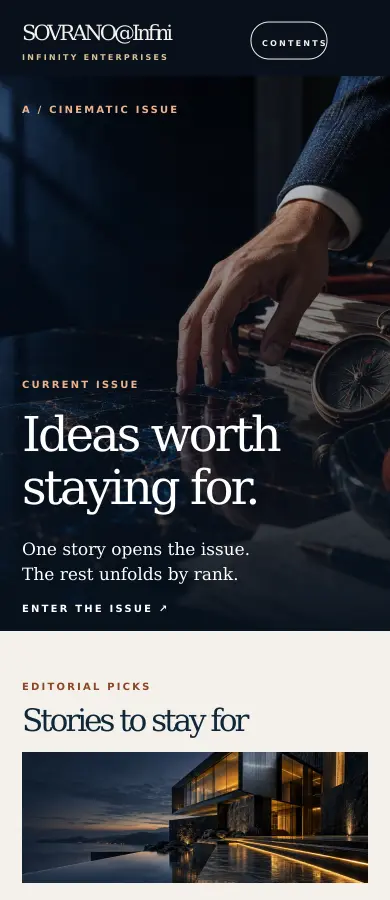
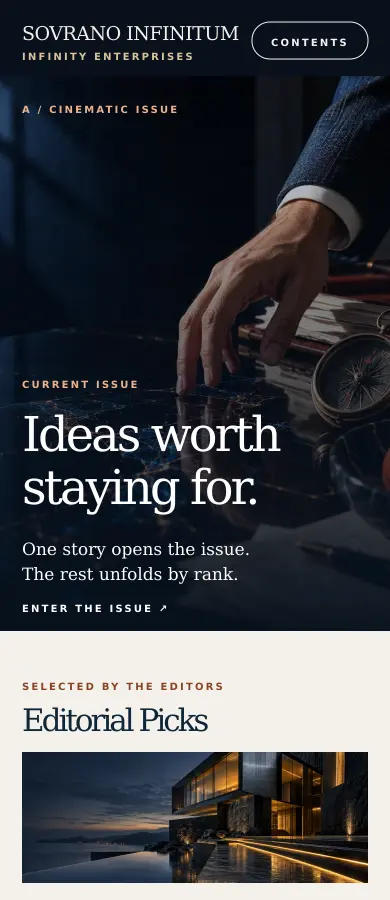
Design #76: resolve review findings and lock masthead

diff --git a/design/page-templates/reference.html b/design/page-templates/reference.html
@@ -18,12 +18,16 @@
   <style>
     .feature-study{background:#f4f1eb;color:#102638}.feature-study .feature-body{display:grid;grid-template-columns:minmax(320px,44%) 1fr;align-items:center;gap:clamp(38px,6vw,110px);padding:50px 5vw 70px}.feature-cover{position:relative;min-height:650px;border:14px solid #9b542f;background:url('../../src/assets/cover.jpg') center/cover;color:#fff;padding:28px;display:flex;flex-direction:column}.feature-cover:before{content:"";position:absolute;inset:0;background:linear-gradient(0deg,#07111de8,transparent 60%),linear-gradient(180deg,#07111d99,transparent 33%)}.feature-cover>*{position:relative}.feature-cover strong{font:normal clamp(2rem,4vw,4.4rem)/1 Georgia,serif;letter-spacing:-.07em}.feature-cover small{font-size:10px;letter-spacing:.15em;text-transform:uppercase}.feature-cover .cover-bottom{margin-top:auto}.feature-cover h2{font:normal clamp(2rem,3.5vw,4rem)/1.02 Georgia,serif;letter-spacing:-.05em;margin:10px 0 0}.feature-intro .kicker{color:#8a4526}.feature-intro h3{font:normal clamp(3.2rem,5.6vw,6.6rem)/.95 Georgia,serif;letter-spacing:-.07em;margin:18px 0 26px}.feature-intro p{font:clamp(1.1rem,1.7vw,1.5rem)/1.5 Georgia,serif;color:#4a5962;max-width:600px}.feature-intro .button{background:#102638;color:#fff}.feature-intro .next{display:block;margin-top:55px;font-size:11px;letter-spacing:.16em;text-transform:uppercase;color:#8a4526}@media(max-width:700px){.feature-study .feature-body{display:block;padding:30px 22px 60px}.feature-cover{min-height:490px;border-width:9px;padding:16px}.feature-cover strong{font-size:2.4rem}.feature-cover h2{font-size:2.15rem}.feature-intro{padding-top:42px}.feature-intro h3{font-size:3.5rem}.feature-intro .next{margin-top:38px}}
   </style>
+  <style>
+    .feature-cover strong{font-size:clamp(2rem,3vw,3.6rem);line-height:.94}
+    @media(max-width:700px){.mast .brand{font-size:17px;min-width:0}.mast .brand span{font-size:10px;letter-spacing:.04em;white-space:nowrap}.mast .nav{flex:none}.mast .nav em{white-space:nowrap}.feature-cover{min-height:430px}.feature-cover strong{font-size:2rem}}
+  </style>
 </head>
 <body>
-  <header class="intro"><small>Issue #76 · visual direction studies · existing art</small><h1>One publication. Three page rhythms.</h1><p>These are static examples for choosing a layout language. The text is illustrative. Existing Ether, MOTOR, and FORM pages remain their own experiences; no content or route is being replaced by this reference.</p></header>
-  <section class="study a" id="direction-a" aria-label="Direction A: cinematic issue"><div class="study-tag">A · Cinematic issue · front page and feature-led departments</div><div class="mast"><div class="brand">SOVRANO@Infini<span>An Infinity Enterprises publication</span></div><div class="nav"><span>Daily Desk &nbsp; Culture &nbsp; Motor &nbsp; Music</span><em>Contents +</em></div></div><div class="cover image"><div><span class="kicker">The current issue · cover story</span><h2>Ideas worth<br>staying for.</h2><p>One strong story opens the issue. The rest unfolds with the rhythm of a magazine, not a wall of cards.</p><span class="button">Enter the issue &nbsp; ↗</span></div></div><div class="paper"><div class="section-heading"><div><span class="eyebrow">Selected by the editors</span><h3>Editorial Picks</h3></div><span class="meta">01 / 03</span></div><div class="picks"><article><img src="../../src/assets/hero.jpg" alt="Existing site art used as a layout study"><span class="meta">Culture · feature 01</span><h4>A story gets room to breathe.</h4><p>Image, headline and introduction work together as one composed opening.</p></article><article><img src="../../src/assets/food.jpg" alt="Existing food art used as a layout study"><span class="meta">Food · feature 01</span><h4>A different appetite.</h4><p>The second story changes scale and pace.</p></article></div></div><div class="foot"><span>Infinity Enterprises</span><span>Design reference · not a published page</span></div></section>
-  <section class="study feature-study" id="major-feature" aria-label="Major Feature cover section"><div class="study-tag">Major Feature · issue cover and flagship story</div><div class="mast"><div class="brand">SOVRANO@Infini<span>An Infinity Enterprises publication</span></div><div class="nav"><span>Current Issue &nbsp; Editorial Picks</span><em>Contents +</em></div></div><div class="feature-body"><div class="feature-cover"><strong>SOVRANO</strong><small>An Infinity Enterprises publication</small><div class="cover-bottom"><small>The September Issue</small><h2>Who governs<br>the reasoning?</h2></div></div><div class="feature-intro"><span class="kicker">01 / The Major Feature</span><h3>A cover story<br>with a point<br>of view.</h3><p>The cover arrests the eye. The introduction opens the argument. The full story earns its own page.</p><span class="button">Read the feature &nbsp; ↗</span><span class="next">Editorial Picks follow below &nbsp; ↓</span></div></div><div class="foot"><span>Infinity Enterprises</span><span>Design reference · not a published page</span></div></section>
-  <section class="study b" id="direction-b" aria-label="Direction B: gallery chapters"><div class="study-tag">B · Gallery chapters · Motor, travel, culture, pets</div><div class="mast"><div class="brand">SOVRANO@Infini<span>An Infinity Enterprises publication</span></div><div class="nav"><span>Culture &nbsp; Motor &nbsp; Music</span><em>Contents +</em></div></div><div class="gallery-hero"><div class="gallery-copy"><span class="kicker">Motor · objects of motion</span><h2>First, the<br>feeling.</h2><p>Details lead to a silhouette, then a reveal. Every scroll changes what you know about the subject.</p><span class="button">Explore the story &nbsp; ↘</span></div><div class="gallery-visual image" role="img" aria-label="Existing Motor artwork"></div></div><div class="chapter"><img src="../../src/assets/motor-2.jpg" alt="Existing Motor detail artwork"><div class="chapter-copy"><span class="number">02 / The long line</span><h3>Built to be<br>looked at.</h3><p>A chapter has its own image, purpose, and tempo. The sequence tells the story.</p></div></div><div class="foot"><span>Infinity Enterprises</span><span>Design reference · not a published page</span></div></section>
-  <section class="study c" id="direction-c" aria-label="Direction C: reading room"><div class="study-tag">C · Reading room · Daily Desk, Journal, Fin@Tech</div><div class="mast"><div class="brand">SOVRANO@Infini<span>An Infinity Enterprises publication</span></div><div class="nav"><span>Daily Desk &nbsp; Journal &nbsp; About</span><em>Contents +</em></div></div><div class="reading-hero"><div class="reading-copy"><span class="meta">The Reading Room · selected work</span><h2>Follow the<br>question.</h2><p>A calmer page for reporting, analysis and essays. Evidence, authorship, and the path through the work stay visible.</p><span class="button">Browse the desk &nbsp; ↗</span></div><div class="reading-visual image" role="img" aria-label="Existing research artwork"></div></div><div class="reading-index"><article><span class="meta">Lead story / reporting</span><h3>What the record shows.</h3><p>The lead gets a clear scope, source trail, and date.</p></article><article><span class="meta">Outside Signals</span><h3>Beyond the room.</h3><p>External work is clearly labeled and credited.</p></article><article><span class="meta">Agentic@Enigmas / opinion</span><h3>A point of view.</h3><p>Opinion reads as opinion, apart from the news desk.</p></article></div><div class="foot"><span>Infinity Enterprises</span><span>Design reference · not a published page</span></div></section>
+  <header class="intro"><small>Issue #76 · visual direction studies · existing art</small><h1>One publication. Three page rhythms.</h1><p>These are independent static composition studies, not consecutive sections of one page. On the homepage the Major Feature replaces the A hero, then Editorial Picks follow. Existing Ether, MOTOR, and FORM pages remain their own experiences.</p></header>
+  <section class="study a" id="direction-a" aria-label="Direction A: cinematic issue"><div class="study-tag">A · Cinematic pattern · alternate hero for feature-led departments</div><div class="mast"><div class="brand">SOVRANO INFINITUM<span>Infinity Enterprises</span></div><div class="nav"><span>Daily Desk &nbsp; Culture &nbsp; Motor &nbsp; Music</span><em>Contents +</em></div></div><div class="cover image"><div><span class="kicker">The current issue · cover story</span><h2>Ideas worth<br>staying for.</h2><p>One strong story opens the issue. The rest unfolds with the rhythm of a magazine, not a wall of cards.</p><span class="button">Enter the issue &nbsp; ↗</span></div></div><div class="paper"><div class="section-heading"><div><span class="eyebrow">Selected by the editors</span><h3>Editorial Picks</h3></div><span class="meta">01 / 03</span></div><div class="picks"><article><img src="../../src/assets/hero.jpg" alt="Existing site art used as a layout study"><span class="meta">Culture · feature 01</span><h4>A story gets room to breathe.</h4><p>Image, headline and introduction work together as one composed opening.</p></article><article><img src="../../src/assets/food.jpg" alt="Existing food art used as a layout study"><span class="meta">Food · feature 01</span><h4>A different appetite.</h4><p>The second story changes scale and pace.</p></article></div></div><div class="foot"><span>Infinity Enterprises</span><span>Design reference · not a published page</span></div></section>
+  <section class="study feature-study" id="major-feature" aria-label="Major Feature cover section"><div class="study-tag">Major Feature · issue cover and flagship story</div><div class="mast"><div class="brand">SOVRANO INFINITUM<span>Infinity Enterprises</span></div><div class="nav"><span>Current Issue &nbsp; Editorial Picks</span><em>Contents +</em></div></div><div class="feature-body"><div class="feature-cover"><strong>SOVRANO<br>INFINITUM</strong><small>An Infinity Enterprises publication</small><div class="cover-bottom"><small>The September Issue</small><h2>Who governs<br>the reasoning?</h2></div></div><div class="feature-intro"><span class="kicker">01 / The Major Feature</span><h3>A cover story<br>with a point<br>of view.</h3><p>The cover opens the question. The story carries it forward. Read the full feature for the argument.</p><span class="button">Read the feature &nbsp; ↗</span><span class="next">Editorial Picks follow below &nbsp; ↓</span></div></div><div class="foot"><span>Infinity Enterprises</span><span>Design reference · not a published page</span></div></section>
+  <section class="study b" id="direction-b" aria-label="Direction B: gallery chapters"><div class="study-tag">B · Gallery chapters · Motor, travel, culture, pets</div><div class="mast"><div class="brand">SOVRANO INFINITUM<span>Infinity Enterprises</span></div><div class="nav"><span>Culture &nbsp; Motor &nbsp; Music</span><em>Contents +</em></div></div><div class="gallery-hero"><div class="gallery-copy"><span class="kicker">Motor · objects of motion</span><h2>First, the<br>feeling.</h2><p>Details lead to a silhouette, then a reveal. Every scroll changes what you know about the subject.</p><span class="button">Explore the story &nbsp; ↘</span></div><div class="gallery-visual image" role="img" aria-label="Existing Motor artwork"></div></div><div class="chapter"><img src="../../src/assets/motor-2.jpg" alt="Existing Motor detail artwork"><div class="chapter-copy"><span class="number">02 / The long line</span><h3>Built to be<br>looked at.</h3><p>A chapter has its own image, purpose, and tempo. The sequence tells the story.</p></div></div><div class="foot"><span>Infinity Enterprises</span><span>Design reference · not a published page</span></div></section>
+  <section class="study c" id="direction-c" aria-label="Direction C: reading room"><div class="study-tag">C · Reading room · Daily Desk, Journal, Fin@Tech</div><div class="mast"><div class="brand">SOVRANO INFINITUM<span>Infinity Enterprises</span></div><div class="nav"><span>Daily Desk &nbsp; Journal &nbsp; About</span><em>Contents +</em></div></div><div class="reading-hero"><div class="reading-copy"><span class="meta">The Reading Room · selected work</span><h2>Follow the<br>question.</h2><p>A calmer page for reporting, analysis and essays. Evidence, authorship, and the path through the work stay visible.</p><span class="button">Browse the desk &nbsp; ↗</span></div><div class="reading-visual image" role="img" aria-label="Existing research artwork"></div></div><div class="reading-index"><article><span class="meta">Lead story / reporting</span><h3>What the record shows.</h3><p>The lead gets a clear scope, source trail, and date.</p></article><article><span class="meta">Outside Signals</span><h3>Beyond the room.</h3><p>External work is clearly labeled and credited.</p></article><article><span class="meta">Agentic@Enigmas / opinion</span><h3>A point of view.</h3><p>Opinion reads as opinion, apart from the news desk.</p></article></div><div class="foot"><span>Infinity Enterprises</span><span>Design reference · not a published page</span></div></section>
 </body>
 </html>

diff --git a/design/page-templates/render_studies.py b/design/page-templates/render_studies.py
@@ -23,13 +23,13 @@ def image(name, x, y, w, h, focus='xMidYMid'):
     return f'<image xlink:href="{art(name)}" x="{x}" y="{y}" width="{w}" height="{h}" preserveAspectRatio="{focus} slice"/>'
 
 
-def label(value, x, y, color='#c77c55', size=13):
+def label(value, x, y, color='#8a4526', size=13):
     return f'<text x="{x}" y="{y}" font-family="Arial,sans-serif" font-size="{size}" font-weight="700" letter-spacing="2.2" fill="{color}">{escape(value.upper())}</text>'
 
 
-def title(lines, x, y, size, color, step=None):
+def title(lines, x, y, size, color, step=None, tracking=-3):
     step = step or size * .99
-    return ''.join(f'<text x="{x}" y="{y + i * step}" font-family="Georgia,serif" font-size="{size}" letter-spacing="-3" fill="{color}">{escape(line)}</text>' for i, line in enumerate(lines))
+    return ''.join(f'<text x="{x}" y="{y + i * step}" font-family="Georgia,serif" font-size="{size}" letter-spacing="{tracking}" fill="{color}">{escape(line)}</text>' for i, line in enumerate(lines))
 
 
 def paragraph(lines, x, y, color, size=20, step=29):
@@ -37,9 +37,11 @@ def paragraph(lines, x, y, color, size=20, step=29):
 
 
 def mast(w):
-    right = w - 48
+    right = w - 48 if w > 600 else w - 22
     subline = 'An Infinity Enterprises publication' if w > 600 else 'Infinity Enterprises'
-    return rect(0, 0, w, 76, '#08101a') + title(['SOVRANO@Infini'], 48 if w > 600 else 22, 40, 28 if w > 600 else 21, '#f4f1eb') + label(subline, 48 if w > 600 else 22, 60, '#d8c39a', 8) + f'<rect x="{right - (150 if w > 600 else 91)}" y="22" width="{130 if w > 600 else 76}" height="37" rx="18" fill="none" stroke="#f4f1eb"/>' + label('Contents', right - (132 if w > 600 else 80), 46, '#f4f1eb', 10 if w > 600 else 8)
+    button_x = right - (150 if w > 600 else 116)
+    button_width = 130 if w > 600 else 116
+    return rect(0, 0, w, 76, '#08101a') + title(['SOVRANO INFINITUM'], 48 if w > 600 else 22, 40, 27 if w > 600 else 19, '#f4f1eb', tracking=-.5) + label(subline, 48 if w > 600 else 22, 60, '#d8c39a', 10) + f'<rect x="{button_x}" y="22" width="{button_width}" height="37" rx="18" fill="none" stroke="#f4f1eb"/>' + label('Contents', button_x + 19, 46, '#f4f1eb', 10)
 
 
 def save(name, w, h, parts):
@@ -64,7 +66,7 @@ save('a-desktop.svg', w, h, [
     image('hero.jpg', 72, 786, 872, 114), image('food.jpg', 968, 786, 560, 114),
 ])
 w, h = 390, 900
-save('a-phone.svg', w, h, [rect(0, 0, w, h, '#f4f1eb'), mast(w), image('cover.jpg', 0, 76, w, 555, 'xMidYMid'), rect(0, 76, w, 555, 'url(#shade)'), label('A  /  CINEMATIC ISSUE', 22, 113, '#efb28b', 10), label('CURRENT ISSUE', 22, 388, '#efb28b', 10), title(['Ideas worth', 'staying for.'], 22, 451, 48, '#fff', 53), paragraph(['One story opens the issue.', 'The rest unfolds by rank.'], 22, 555, '#fff', 17, 25), label('ENTER THE ISSUE  ↗', 22, 612, '#fff', 10), label('EDITORIAL PICKS', 22, 690, '#8a4526', 10), title(['Stories to stay for'], 22, 731, 31, '#102638'), image('hero.jpg', 22, 752, 346, 131)])
+save('a-phone.svg', w, h, [rect(0, 0, w, h, '#f4f1eb'), mast(w), image('cover.jpg', 0, 76, w, 555, 'xMidYMid'), rect(0, 76, w, 555, 'url(#shade)'), label('A  /  CINEMATIC ISSUE', 22, 113, '#efb28b', 10), label('CURRENT ISSUE', 22, 388, '#efb28b', 10), title(['Ideas worth', 'staying for.'], 22, 451, 48, '#fff', 53), paragraph(['One story opens the issue.', 'The rest unfolds by rank.'], 22, 555, '#fff', 17, 25), label('ENTER THE ISSUE  ↗', 22, 612, '#fff', 10), label('SELECTED BY THE EDITORS', 22, 690, '#8a4526', 10), title(['Editorial Picks'], 22, 731, 31, '#102638'), image('hero.jpg', 22, 752, 346, 131)])
 
 # Major Feature: a portrait magazine cover and adjacent editorial introduction.
 # This is the lead section after the opening, not a replacement for an article.
@@ -75,11 +77,11 @@ save('feature-desktop.svg', w, h, [
     rect(72, 156, 570, 700, '#9b542f'),
     image('cover.jpg', 86, 170, 542, 672, 'xMidYMid'),
     rect(86, 170, 542, 672, 'url(#shade)'),
-    title(['SOVRANO'], 116, 250, 68, '#fff'),
+    title(['SOVRANO', 'INFINITUM'], 116, 234, 50, '#fff', 51, tracking=-.7),
     label('AN INFINITY ENTERPRISES PUBLICATION', 116, 279, '#f4f1eb', 10),
     label('THE SEPTEMBER ISSUE', 116, 672, '#efb28b'),
     title(['Who governs', 'the reasoning?'], 116, 742, 43, '#fff', 48),
-    label('01  /  THE FEATURE', 728, 269, '#8a4526'),
+    label('01  /  THE MAJOR FEATURE', 728, 269, '#8a4526'),
     title(['A cover story', 'with a point', 'of view.'], 728, 365, 75, '#102638', 81),
     paragraph(['The cover arrests the eye. The introduction opens',
                'the argument. The full story earns its own page.'], 732, 647, '#4a5962', 24, 36),
@@ -90,16 +92,18 @@ w, h = 390, 900
 save('feature-phone.svg', w, h, [
     rect(0, 0, w, h, '#f4f1eb'), mast(w),
     label('THE CURRENT ISSUE  /  MAJOR FEATURE', 22, 113, '#8a4526', 10),
-    rect(22, 138, 346, 503, '#9b542f'),
-    image('cover.jpg', 31, 147, 328, 485, 'xMidYMid'),
-    rect(31, 147, 328, 485, 'url(#shade)'),
-    title(['SOVRANO'], 47, 206, 38, '#fff'),
-    label('INFINITY ENTERPRISES', 47, 229, '#fff', 8),
-    label('THE SEPTEMBER ISSUE', 47, 526, '#efb28b', 9),
-    title(['Who governs', 'the reasoning?'], 47, 575, 29, '#fff', 33),
-    label('01  /  THE FEATURE', 22, 691, '#8a4526', 10),
-    title(['A cover story', 'with a point', 'of view.'], 22, 744, 35, '#102638', 39),
-    label('READ THE FEATURE  ↗', 22, 882, '#8a4526', 10),
+    rect(22, 138, 346, 430, '#9b542f'),
+    image('cover.jpg', 31, 147, 328, 412, 'xMidYMid'),
+    rect(31, 147, 328, 412, 'url(#shade)'),
+    title(['SOVRANO', 'INFINITUM'], 47, 191, 29, '#fff', 31, tracking=-.5),
+    label('INFINITY ENTERPRISES', 47, 246, '#fff', 10),
+    label('THE SEPTEMBER ISSUE', 47, 468, '#efb28b', 10),
+    title(['Who governs', 'the reasoning?'], 47, 507, 28, '#fff', 31),
+    label('01  /  THE MAJOR FEATURE', 22, 602, '#8a4526', 10),
+    title(['A cover story with', 'a point of view.'], 22, 649, 32, '#102638', 35),
+    paragraph(['The cover opens the question.', 'The story carries it forward.'], 22, 747, '#4a5962', 16, 22),
+    rect(22, 812, 265, 52, '#102638'),
+    label('READ THE FEATURE  ↗', 44, 844, '#fff', 10),
 ])
 
 # B: dark gallery progression.
@@ -108,7 +112,7 @@ save('b-desktop.svg', w, h, [
     rect(0, 0, w, h, '#10151a'), mast(w),
     rect(0, 76, 690, 555, '#10151a'), image('motor-1.jpg', 690, 76, 910, 555),
     rect(690, 76, 235, 555, 'url(#side)'),
-    label('B  /  GALLERY CHAPTERS', 72, 128, '#efb28b'),
+    label('B  /  GALLERY PATTERN WITH MOTOR ART', 72, 128, '#efb28b'),
     label('MOTOR  •  OBJECTS OF MOTION', 72, 235, '#efb28b'),
     title(['First, the', 'feeling.'], 72, 340, 86, '#fff', 92),
     paragraph(['Detail. Silhouette. Then the reveal.', 'Each scroll changes what you know.'], 72, 520, '#d2c8c1', 22),
@@ -118,7 +122,7 @@ save('b-desktop.svg', w, h, [
     title(['Built to be', 'looked at.'], 855, 772, 54, '#fff', 58),
 ])
 w, h = 390, 900
-save('b-phone.svg', w, h, [rect(0, 0, w, h, '#10151a'), mast(w), image('motor-1.jpg', 0, 76, w, 365, 'xMidYMid'), rect(0, 325, w, 116, 'url(#shade)'), label('B  /  GALLERY CHAPTERS', 22, 115, '#fff', 10), label('MOTOR  •  OBJECTS OF MOTION', 22, 493, '#efb28b', 10), title(['First, the', 'feeling.'], 22, 555, 53, '#fff', 56), paragraph(['Detail. Silhouette. Reveal.'], 22, 659, '#d2c8c1', 17), label('EXPLORE THE STORY  ↘', 22, 700, '#fff', 10), image('motor-2.jpg', 0, 735, w, 165)])
+save('b-phone.svg', w, h, [rect(0, 0, w, h, '#10151a'), mast(w), image('motor-1.jpg', 0, 76, w, 365, 'xMidYMid'), rect(0, 325, w, 116, 'url(#shade)'), label('B  /  MOTOR ART STUDY', 22, 115, '#fff', 10), label('MOTOR  •  OBJECTS OF MOTION', 22, 493, '#efb28b', 10), title(['First, the', 'feeling.'], 22, 555, 53, '#fff', 56), paragraph(['Detail. Silhouette. Reveal.'], 22, 659, '#d2c8c1', 17), label('EXPLORE THE STORY  ↘', 22, 700, '#fff', 10), image('motor-2.jpg', 0, 735, w, 165)])
 
 # C: paper reading environment.
 w, h = 1600, 900

diff --git a/design/page-templates/README.md b/design/page-templates/README.md
@@ -1,6 +1,6 @@
 # Infinity page layout templates
 
-**Status:** owner selected the combined system in issue #76: A for the front page, B for visual departments, and C for reading and research, with a dedicated Major Feature cover section. This is not a live page or a replacement for an approved room. Open [reference.html](reference.html) in a browser to see the responsive layouts. Its images are existing repository assets; illustrative copy is marked as such.
+**Status:** owner selected the combined system in issue #76: A for the front page, B for visual departments, and C for reading and research, with a dedicated Major Feature cover section. Chris selected **SOVRANO INFINITUM** for the masthead. This is not a live page or a replacement for an approved room. Open [reference.html](reference.html) in a browser to see the responsive layouts. Its images are existing repository assets; illustrative copy is marked as such.
 
 Desktop preview boards use a **1600 × 900 (16:9)** frame. The phone studies remain 390 × 900 portrait. These are viewports into scrolling pages, not fixed page heights.
 
@@ -13,12 +13,17 @@ Desktop preview boards use a **1600 × 900 (16:9)** frame. The phone studies rem
 
 The cover section borrows the editorial *scale* of a newsmagazine cover without borrowing another publication's mark or exact cover design. Its art, headline and frame are Infinity's own. It opens the Current Issue after the splash, then hands off to Editorial Picks.
 
+**How to read the studies:** each board illustrates a layout pattern, not another consecutive section of one page. On `/`, the Major Feature **replaces A's hero band**, so `cover.jpg` appears once before Editorial Picks. A's image-led hero remains a possible opening for a feature-led department. B uses MOTOR art to illustrate a gallery chapter; the existing `/motor` experience is governed by D. The HTML study demonstrates responsive flow and controls, while the boards show the approved composition. If their example copy differs, follow the flow here and verify final editorial text in its own issue.
+
 ## Which reference wins
 
 1. The actual existing page and its behavior are the preservation baseline: [`src/home.html`](../../src/home.html), [`src/ether.html`](../../src/ether.html), [`src/motor.html`](../../src/motor.html), [`src/form.html`](../../src/form.html), and existing article routes. The source mirror may lag the published Site; compare with the live route before replacing a visual treatment.
 2. The approved department map and routes are in [`docs/blueprint/NAVIGATION.md`](../../docs/blueprint/NAVIGATION.md). This guide describes layout, not a route migration.
 3. This kit defines the visual grammar for new pages and review of changes. Its illustrated text and crops are examples, not approved editorial or final imagery.
-4. [`design/issue-mocks/`](../issue-mocks/) explores possible room directions. A mock is not permission to overwrite an existing page or change a locked journey. Resolve a conflict with the owner in the relevant issue.
+4. Where this kit conflicts with [`design/sovrano-v1/`](../sovrano-v1/) on **page composition or the masthead name**, this kit wins. The older pack's room colors, motifs, and other compatible visual work remain useful. The 14 department names and routes in #60 remain; its visible menu grouping is still a proposal for Forge to bring back for owner review. Do not silently adopt either the older nine Italian menu slots or an unapproved ten-slot draft.
+5. [`design/issue-mocks/`](../issue-mocks/) explores possible room directions. A mock is not permission to overwrite an existing page or change a locked journey. Resolve a conflict with the owner in the relevant issue.
+
+The A/B/C labels describe **composition families, not identical page layouts**. A room can vary its grid, typography, color, texture, motif, transition, and editorial pacing inside its family. Music, Tech@Lounge, and Food should remain unmistakably different even with their text blurred, as #35 requires. Do not flatten #31's room identities into one reusable card grid.
 
 ## The house style
 
@@ -34,6 +39,8 @@ Think of a cinematic magazine: **a single arresting opening, then an editorial s
 | Controls | Legible at rest, high contrast on focus; sound off until chosen; visible controls over immersive images | `src/site.css`, `src/ether.html`, `src/form.html` |
 
 Do not turn every department into the same three-card grid. Do not paste a photo above a title as the entire composition. Do not make every piece of text faint: quiet captions still need readable contrast. Motion serves an entrance or transition, then yields to reading. Reduced-motion visitors get the content without a blocking animation. A cinematic splash is skippable, and never hides navigation.
+
+Use dark rust `#8a4526` for small text on paper; `#c77c55` is an accent and fails small-text contrast on `#f4f1eb`. Treat the previews as composition studies, not a pixel-perfect type specification. The smallest visible label in a new page should be at least 10 CSS px, with readable contrast and larger text where practical.
 
 ## Page flows
 
@@ -69,7 +76,7 @@ The layouts are families, not rigid component inventories. The distinguishing co
 
 | Department | Template | Distinguishing treatment and entry sequence |
 |---|---|---|
-| Home / Current Issue | A + Major Feature | Splash, flagship cover and story, Editorial Picks, Culture/Motor/Food windows |
+| Home / Current Issue | Major Feature, then A's editorial rhythm | Splash, flagship cover and story, Editorial Picks, Culture/Motor/Food windows; do not repeat A's sample hero |
 | Fin@Tech | C with B opening | Market theater with timestamped data and source notes; analysis distinct from prices and promotion |
 | The Reading Room | C | A quiet doorway to Outside Signals, Editorial Picks, Agentic@Enigmas, Daily Desk |
 | Culture | B | Fashion, art, screen and nightlife as scene changes, with prominent feature photography |
@@ -89,3 +96,7 @@ The layouts are families, not rigid component inventories. The distinguishing co
 Attach a 1440px desktop and 390px phone capture to any page pull request. In the description, identify the template family, the existing route used as the baseline, the visual reason for deviations, and what happens to its images, links, editorial content, sound, keyboard flow, and reduced motion. Test the actual first viewport, one middle transition, and the exit on both sizes. Check a quiet caption over the brightest and darkest image positions. Verify every source/date/credit claim independently; this kit contains no reporting.
 
 Before changing Ether, MOTOR, or FORM, compare the proposed page side by side with its current published experience and cite the relevant issue. Keep every existing asset and route until an explicit replacement is approved. If a proposed room mock conflicts with this preservation rule, raise it in the issue rather than silently swapping the aesthetic.
+
+## Reproducing the preview boards
+
+Run `python design/page-templates/render_studies.py` from a checkout with the current `src/assets/` files. It writes self-contained SVG studies beside this guide. To reproduce the committed WebP previews, export each SVG with Inkscape at its declared page size, then convert to WebP with ImageMagick quality 72. For example: `inkscape design/page-templates/a-desktop.svg --export-filename=/tmp/a-desktop.png` and `convert /tmp/a-desktop.png -quality 72 design/page-templates/a-desktop.webp`. The SVGs and intermediate PNGs are generation outputs, not committed assets.
